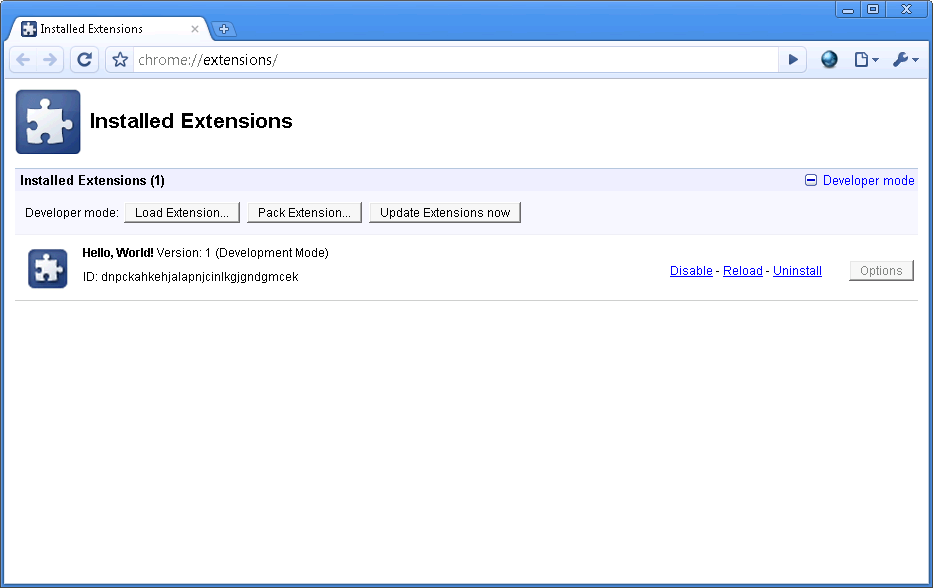
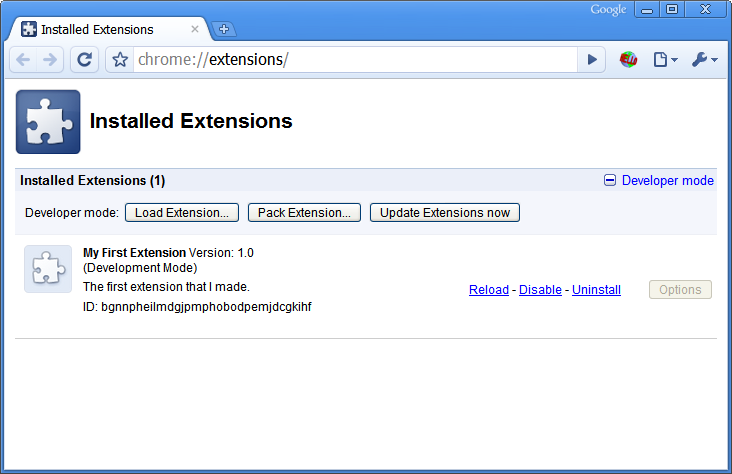
Cleanup pass on Getting Started.
Copyedited it, and updated it to use new icons,
new screenshots, and the new examples directory.
I'll remove the samples directory once the
debugging tutorial is updated.

BUG=none
TEST=none
TBR=aa

Review URL: http://codereview.chromium.org/384136

git-svn-id: http://src.chromium.org/svn/trunk/src@31969 4ff67af0-8c30-449e-8e8b-ad334ec8d88c

Changed region(s): [[0.0, 0.0, 1.0, 1.0], [0.6311, 0.5907, 0.9617, 0.6203]]

diff --git a/chrome/common/extensions/docs/static/getstarted.html b/chrome/common/extensions/docs/static/getstarted.html
@@ -3,13 +3,13 @@
 
 <p>
 This tutorial walks you through creating a simple extension.
-You'll add a button to Google Chrome
+You'll add an icon to Google Chrome
 that, when clicked, displays an automatically generated page.
-The button and page will look something like this:
+The icon and page will look something like this:
 </p>
 
 <img src="images/hello-world-small.png"
-  width="300" height="199"
+  width="300" height="243"
   alt="a window with a grid of images related to HELLO WORLD" />
 
 
@@ -46,14 +46,14 @@ to the toolbar of Google Chrome.
     create a text file called <strong><code>manifest.json</code></strong>,
     and put this in it:
 <pre>{
-  &quot;name&quot;: &quot;My First Extension&quot;,
-  &quot;version&quot;: &quot;1.0&quot;,
-  &quot;description&quot;: &quot;The first extension that I made.&quot;,
-  &quot;browser_action&quot;: {
-    &quot;"default_icon": "icon.png"&quot;
+  "name": "My First Extension",
+  "version": "1.0",
+  "description": "The first extension that I made.",
+  "browser_action": {
+    "default_icon": "icon.png"
   },
-  &quot;permissions&quot;: [
-    &quot;http://api.flickr.com/&quot;
+  "permissions": [
+    "http://api.flickr.com/"
   ]
 }</pre>
   </li>
@@ -62,10 +62,10 @@ to the toolbar of Google Chrome.
     <table cellpadding="0" cellspacing="0">
       <tr>
         <td style="text-align:center; border:0;"><a
-          href="samples/hello_world/icon.png"
-            ><img src="samples/hello_world/icon.png"
+          href="examples/tutorials/getstarted/icon.png"
+            ><img src="examples/tutorials/getstarted/icon.png"
               width="19" height="19" border="0"></a><br>
-          <a href="samples/hello_world/icon.png"
+          <a href="examples/tutorials/getstarted/icon.png"
             >Download icon.png</a></td>
       </tr>
     </table>
@@ -73,7 +73,18 @@ to the toolbar of Google Chrome.
   <li> Load the extension.
     <ol type="a">
       <li>
-      Bring up the Extensions management page by clicking the wrench icon, and selecting the "Extensions" menu item.
+      Bring up the extensions management page
+      by clicking the Tools menu
+      <img src="images/toolsmenu.gif" width="43" height="34" alt=""
+           align="absmiddle">
+      and choosing <b>Extensions</b>.
+      </li>
+
+      <li>
+      If <b>Developer mode</b> has a + by it,
+      click the + to add developer information to the page.
+      The + changes to a -,
+      and more buttons and information appear.
       </li>
 
       <li>
@@ -85,23 +96,23 @@ to the toolbar of Google Chrome.
       In the file dialog,
       navigate to your extension's folder
       (<code>c:\myext</code>, for example)
-      and click the <b>OK</b> button.
+      and click <b>OK</b>.
       </li>
     </ol> </li>
   </ol>
 
 <p>
 If your extension is valid,
-information about it
-appears in the <b>Installed extensions</b> part
-of the Extensions page,
+its icon appears next to the address bar,
+and information about the extension
+appears in the extensions page,
 as the following screenshot shows.
 </p>
 
 <p>
 <a href="images/load_after.png"><img
   src="images/load_after_small.png"
-  width="327" height="206" /></a>
+  width="300" height="194" /></a>
 </p>
 
 <h2 id="code">Add code to the extension</h2>
@@ -112,28 +123,30 @@ as the following screenshot shows.
 <pre>
   ...
   "browser_action": {
-    "default_icon": "icon.png",
-    <b style="background:yellow">"popup": "popup.html"</b>
+    "default_icon": "icon.png"<b>,
+    "popup": "popup.html"</b>
   },
   ...
 </pre>
     <p> Inside your extension's folder,
     create a text file called <strong><code>popup.html</code></strong>,
     and add the following code to it:</p>
-    <blockquote> <a href="samples/hello_world/popup.html" onclick="window.open('view-source:' + this.href); return false;">CSS
+    <blockquote> <a href="http://src.chromium.org/viewvc/chrome/trunk/src/chrome/common/extensions/docs/examples/tutorials/getstarted/popup.html?content-type=text/plain"
+    target="_blank">CSS
     and JavaScript code for hello_world</a></blockquote>
   </li>
   <li>
-    Return to <b>chrome://extensions</b>,
+    Return to the extensions management page,
     and click the <b>Reload</b> button
     to load the new version of the extension.</li>
-  <li>Click the button.
-  A popup bubble should come up that displays <code>popup.html</code>. </li>
+  <li>Click the extension's icon.
+  A popup should appear that displays the contents of
+  <code>popup.html</code>. </li>
 </ol>
 <p> It should look something like this:</p>
 
 <img src="images/hello-world.png"
-  width="583" height="387"
+  width="500" height="405"
   alt="a popup with a grid of images related to HELLO WORLD" />
 
 <p> If you don't see the popup,
@@ -172,6 +185,6 @@ Here are some suggestions for what to do next:
   </li>
   <li>
     Look at some
-    <a href="http://sites.google.com/a/chromium.org/dev/developers/design-documents/extensions/samples">sample extensions</a>
+    <a href="samples.html">sample extensions</a>
   </li>
 </ul>

diff --git a/chrome/common/extensions/docs/getstarted.html b/chrome/common/extensions/docs/getstarted.html
@@ -239,12 +239,12 @@
 
 <p>
 This tutorial walks you through creating a simple extension.
-You'll add a button to Google Chrome
+You'll add an icon to Google Chrome
 that, when clicked, displays an automatically generated page.
-The button and page will look something like this:
+The icon and page will look something like this:
 </p>
 
-<img src="images/hello-world-small.png" width="300" height="199" alt="a window with a grid of images related to HELLO WORLD">
+<img src="images/hello-world-small.png" width="300" height="243" alt="a window with a grid of images related to HELLO WORLD">
 
 
 <h2 id="browser">Get your browser ready</h2>
@@ -284,7 +284,7 @@ to the toolbar of Google Chrome.
   "version": "1.0",
   "description": "The first extension that I made.",
   "browser_action": {
-    ""default_icon": "icon.png""
+    "default_icon": "icon.png"
   },
   "permissions": [
     "http://api.flickr.com/"
@@ -295,15 +295,25 @@ to the toolbar of Google Chrome.
     Copy this icon to the same folder:<br>
     <table cellpadding="0" cellspacing="0">
       <tbody><tr>
-        <td style="text-align:center; border:0;"><a href="samples/hello_world/icon.png"><img src="samples/hello_world/icon.png" width="19" height="19" border="0"></a><br>
-          <a href="samples/hello_world/icon.png">Download icon.png</a></td>
+        <td style="text-align:center; border:0;"><a href="examples/tutorials/getstarted/icon.png"><img src="examples/tutorials/getstarted/icon.png" width="19" height="19" border="0"></a><br>
+          <a href="examples/tutorials/getstarted/icon.png">Download icon.png</a></td>
       </tr>
     </tbody></table>
   </li>
   <li> Load the extension.
     <ol type="a">
       <li>
-      Bring up the Extensions management page by clicking the wrench icon, and selecting the "Extensions" menu item.
+      Bring up the extensions management page
+      by clicking the Tools menu
+      <img src="images/toolsmenu.gif" width="43" height="34" alt="" align="absmiddle">
+      and choosing <b>Extensions</b>.
+      </li>
+
+      <li>
+      If <b>Developer mode</b> has a + by it,
+      click the + to add developer information to the page.
+      The + changes to a -,
+      and more buttons and information appear.
       </li>
 
       <li>
@@ -315,21 +325,21 @@ to the toolbar of Google Chrome.
       In the file dialog,
       navigate to your extension's folder
       (<code>c:\myext</code>, for example)
-      and click the <b>OK</b> button.
+      and click <b>OK</b>.
       </li>
     </ol> </li>
   </ol>
 
 <p>
 If your extension is valid,
-information about it
-appears in the <b>Installed extensions</b> part
-of the Extensions page,
+its icon appears next to the address bar,
+and information about the extension
+appears in the extensions page,
 as the following screenshot shows.
 </p>
 
 <p>
-<a href="images/load_after.png"><img src="images/load_after_small.png" width="327" height="206"></a>
+<a href="images/load_after.png"><img src="images/load_after_small.png" width="300" height="194"></a>
 </p>
 
 <h2 id="code">Add code to the extension</h2>
@@ -339,27 +349,28 @@ as the following screenshot shows.
     <p> Edit <code>manifest.json</code> to add the following line:</p>
 <pre>  ...
   "browser_action": {
-    "default_icon": "icon.png",
-    <b style="background:yellow">"popup": "popup.html"</b>
+    "default_icon": "icon.png"<b>,
+    "popup": "popup.html"</b>
   },
   ...
 </pre>
     <p> Inside your extension's folder,
     create a text file called <strong><code>popup.html</code></strong>,
     and add the following code to it:</p>
-    <blockquote> <a href="samples/hello_world/popup.html" onclick="window.open('view-source:' + this.href); return false;">CSS
+    <blockquote> <a href="http://src.chromium.org/viewvc/chrome/trunk/src/chrome/common/extensions/docs/examples/tutorials/getstarted/popup.html?content-type=text/plain" target="_blank">CSS
     and JavaScript code for hello_world</a></blockquote>
   </li>
   <li>
-    Return to <b>chrome://extensions</b>,
+    Return to the extensions management page,
     and click the <b>Reload</b> button
     to load the new version of the extension.</li>
-  <li>Click the button.
-  A popup bubble should come up that displays <code>popup.html</code>. </li>
+  <li>Click the extension's icon.
+  A popup should appear that displays the contents of
+  <code>popup.html</code>. </li>
 </ol>
 <p> It should look something like this:</p>
 
-<img src="images/hello-world.png" width="583" height="387" alt="a popup with a grid of images related to HELLO WORLD">
+<img src="images/hello-world.png" width="500" height="405" alt="a popup with a grid of images related to HELLO WORLD">
 
 <p> If you don't see the popup,
 try the instructions again,
@@ -397,7 +408,7 @@ Here are some suggestions for what to do next:
   </li>
   <li>
     Look at some
-    <a href="http://sites.google.com/a/chromium.org/dev/developers/design-documents/extensions/samples">sample extensions</a>
+    <a href="samples.html">sample extensions</a>
   </li>
 </ul>
 </div>

diff --git a/chrome/common/extensions/docs/examples/tutorials/getstarted/popup.html b/chrome/common/extensions/docs/examples/tutorials/getstarted/popup.html
@@ -1,0 +1,50 @@
+<style>
+body {
+  min-width:357px;
+  overflow-x:hidden;
+}
+
+img {
+  margin:5px;
+  border:2px solid black;
+  vertical-align:middle;
+  width:75px;
+  height:75px;
+}
+</style>
+
+<script>
+var req = new XMLHttpRequest();
+req.open(
+    "GET",
+    "http://api.flickr.com/services/rest/?" +
+        "method=flickr.photos.search&" +
+        "api_key=90485e931f687a9b9c2a66bf58a3861a&" +
+        "text=hello%20world&" +
+        "safe_search=1&" +  // 1 is "safe"
+        "content_type=1&" +  // 1 is "photos only"
+        "sort=relevance&" +  // another good one is "interestingness-desc"
+        "per_page=20",
+    true);
+req.onload = showPhotos;
+req.send(null);
+
+function showPhotos() {
+  var photos = req.responseXML.getElementsByTagName("photo");
+
+  for (var i = 0, photo; photo = photos[i]; i++) {
+    var img = document.createElement("image");
+    img.src = constructImageURL(photo);
+    document.body.appendChild(img);
+  }
+}
+
+// See: http://www.flickr.com/services/api/misc.urls.html
+function constructImageURL(photo) {
+  return "http://farm" + photo.getAttribute("farm") +
+      ".static.flickr.com/" + photo.getAttribute("server") +
+      "/" + photo.getAttribute("id") +
+      "_" + photo.getAttribute("secret") +
+      "_s.jpg";
+}
+</script>
